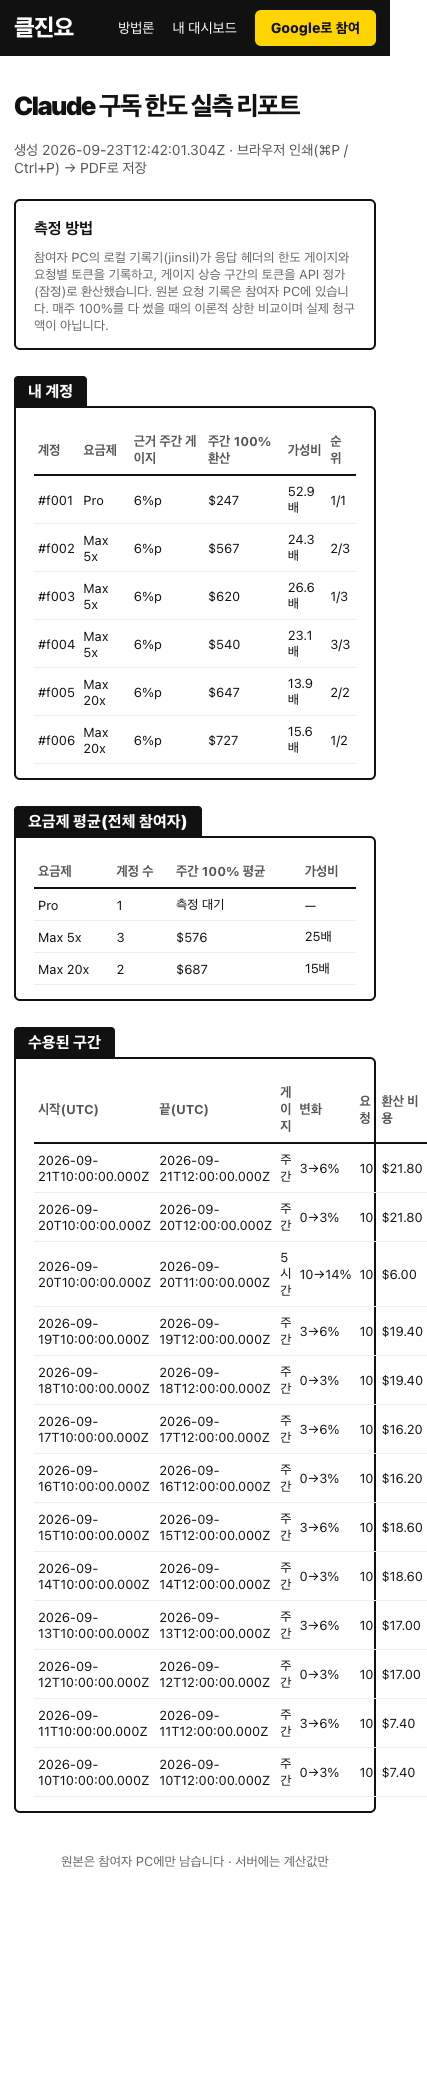
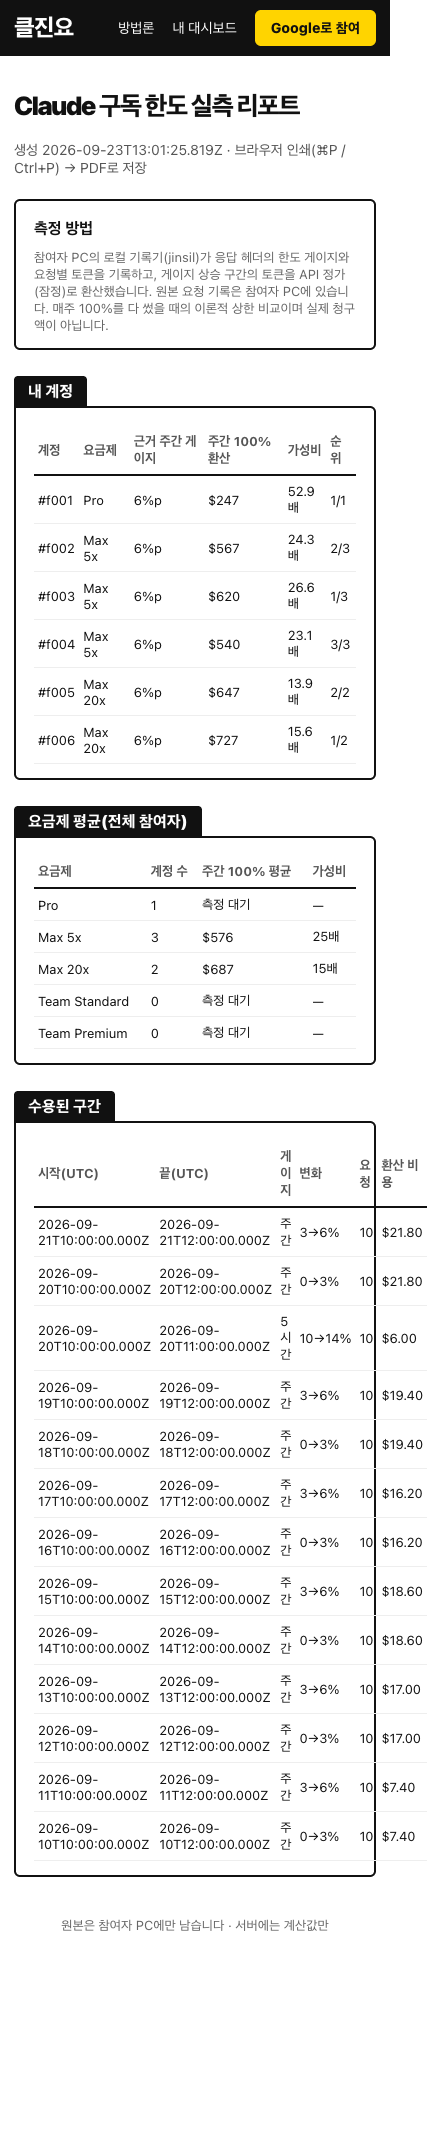
feat: setup이 Claude Code로 셸 설정 분석해 별칭 자동 연결·연결 테스트, 평소 claude 감싸기, Team 요금제, 참여 로그 5시간/주간 분리 (0.1.5)
- aiplan: claude 관련 alias·함수만 비밀값 가려 claude -p(도구 차단)에 보내 감쌀 대상 판단. 적용은 규칙 후보를 좁히기만.
- 요청 자체가 기록기 경유 → 장부 증가로 연결 테스트.
- Team Standard  / Premium (월 결제, 공식 도움말). tier 문자열은 실측 전 — team 먼저 가려 Pro 오분류 방지.
- 구간별 1%당 값은 게이지 반영 지연으로 튀어 공개 표시에서 제거, 계정 합산만.
- scripts/import-teamclaude.mjs: teamclaude 요청 로그 가져오기(완전성 대조). 짧은 구간 선택 편향이 확인돼 해당 30개는 서버에서 제외 처리.

diff --git a/server/src/pages.js b/server/src/pages.js
@@ -37,19 +37,22 @@ a{color:inherit}.wrap{max-width:1200px;margin:0 auto;padding:0 24px}
 .panel{border:2px solid #111;border-radius:6px;margin-top:22px;padding:18px 18px 14px}
 .tab{display:inline-block;background:#111;color:#fff;font-weight:900;padding:6px 14px;border-radius:4px 4px 0 0;margin:26px 0 -2px;font-size:16px}
 .tab+.panel{margin-top:0;border-top-left-radius:0}
-.bars .row{display:grid;grid-template-columns:90px 1fr 90px;align-items:center;gap:10px;margin:8px 0;font-weight:800}
+.bars .row{display:grid;grid-template-columns:130px 1fr 90px;align-items:center;gap:10px;margin:8px 0;font-weight:800}
 .bar{height:26px;background:#f2f2f2;position:relative}.bar i{position:absolute;left:0;top:0;bottom:0;background:#111}.bar i.hi{background:#FFD400;border:2px solid #111}
 .bar.wait{background:repeating-linear-gradient(45deg,#fff,#fff 6px,#eee 6px,#eee 12px);border:2px dashed #999}
 table{width:100%;border-collapse:collapse;font-size:14px}th{text-align:left;font-weight:700;color:#555;border-bottom:2px solid #111;padding:8px 6px}
 td{padding:8px 6px;border-bottom:1px solid #eee}td.num{font-variant-numeric:tabular-nums}
 .dot{display:inline-block;width:9px;height:9px;border-radius:50%;background:#2a9d4a;margin-right:6px}.dot.g{background:#aaa}.dot.r{background:#D62828}
+.feeds{display:grid;grid-template-columns:1fr 1fr;gap:22px}.feeds h3{margin:0 0 8px;font-size:17px}
+.sub{margin:26px 0 12px;font-size:20px;font-weight:900}.sub small{font-size:13px;font-weight:500;color:#666;margin-left:8px}
+.cards.team{grid-template-columns:repeat(2,1fr);max-width:66.6%}
 .ranks{display:grid;grid-template-columns:repeat(3,1fr);gap:18px}.ranks h3{margin:0 0 8px;font-size:17px}
 .foot{text-align:center;color:#666;font-size:13px;margin:40px 0 30px}
 .note{font-size:13px;color:#666;margin:10px 0 0}.warn{background:#fff6cc;border:2px solid #111;padding:10px 14px;font-size:14px;margin-top:14px}
 .kpis{display:grid;grid-template-columns:repeat(4,1fr);gap:14px}.kpi{border:2px solid #111;padding:14px}.kpi b{display:block;font-size:30px;font-weight:900;letter-spacing:-1px}.kpi span{font-size:13px;color:#555}
 code,pre{background:#f4f4f4;padding:2px 6px;border-radius:4px;font-size:13px}pre{padding:12px;overflow:auto}
 .prose{max-width:780px;line-height:1.75;font-size:16px}.prose h2{margin-top:32px}
-@media (max-width:820px){.cards,.ranks,.kpis{grid-template-columns:1fr}.logo small{display:none}.nav a.hide-m{display:none}.big{font-size:48px}
+@media (max-width:820px){.cards,.cards.team,.ranks,.kpis,.feeds{grid-template-columns:1fr;max-width:none}.logo small{display:none}.nav a.hide-m{display:none}.big{font-size:48px}
 .bars .row{grid-template-columns:70px 1fr 64px}.hide-m{display:none}.top .wrap{padding:0 14px}.wrap{padding:0 14px}th,td{padding:7px 4px;font-size:13px}}
 @media print{.top,.band,.noprint{display:none}.panel{break-inside:avoid}}`;
 
@@ -80,30 +83,38 @@ function planCard(p, sticks, bestPlan) {
 export async function home(req, env) {
   const [s, f, user] = await Promise.all([publicStats(env), feed(env, 20), currentUser(req, env)]);
   const plans = ['pro', 'max5x', 'max20x'].map(k => s.plans[k]);
+  const teamPlans = ['team_standard', 'team_premium'].map(k => s.plans[k]).filter(Boolean);
+  const allPlans = [...plans, ...teamPlans];
   const best = Object.entries(s.stickers).find(([, v]) => v.some(t => t.kind === 'best'))?.[0];
   const maxMult = Math.max(1, ...plans.map(p => p.shown ? p.value_multiple : 0));
-  const bars = plans.map(p => p.shown
+  const bars = allPlans.map(p => p.shown
     ? `<div class="row"><span>${esc(p.label)}</span><div class="bar"><i class="${best === p.plan ? 'hi' : ''}" style="width:${(p.value_multiple / maxMult * 100).toFixed(1)}%"></i></div><span>${x(p.value_multiple)}</span></div>`
     : `<div class="row"><span>${esc(p.label)}</span><div class="bar wait"></div><span style="color:#888">측정 대기</span></div>`).join('');
-  const rankTables = plans.map(p => {
+  const rankTables = allPlans.map(p => {
     const rows = s.ranking[p.plan];
     return `<div><h3>${esc(p.label)}</h3>${rows.length ? `<table><tr><th>순위</th><th>참여자</th><th>가성비</th><th class="hide-m">주간 100%</th></tr>${rows.slice(0, 10).map(r =>
       `<tr><td>${r.rank}</td><td>#${esc(r.tag)}</td><td class="num">${(r.value_multiple).toFixed(1)}배</td><td class="num hide-m">${usd(r.usd_per_100pct)}</td></tr>`).join('')}</table>`
       : `<p class="note">${p.shown ? '아직 순위에 오른 계정이 없습니다(주간 게이지 3%p 이상 필요).' : `측정 대기 — 이 요금제 참여 계정이 ${p.min_accounts}개 이상이면 순위를 공개합니다(현재 ${p.n}).`}</p>`}</div>`;
   }).join('');
-  const feedRows = f.length ? f.map(r => `<tr><td>${kst(r.at)}</td><td><span class="dot ${r.status === 'accepted' ? (r.display === '검증 중' ? 'g' : '') : r.status === 'flagged' ? 'r' : 'g'}"></span>#${esc(r.tag)}</td>
-    <td>${esc(PLAN_LABEL[r.plan] || '미확인')}</td><td>${gaugeLabel(r.gauge)} ${esc(r.range)}</td><td class="num">${esc(r.display)}</td></tr>`).join('')
-    : '<tr><td colspan="5" class="note">아직 제출된 구간이 없습니다.</td></tr>';
+  const feedTable = gauge => {
+    const rs = f.filter(r => r.gauge === gauge);
+    return `<table><tr><th>시각(KST)</th><th>참여자</th><th>요금제</th><th>게이지 변화</th><th>상태</th></tr>${rs.length ? rs.map(r => `<tr><td>${kst(r.at)}</td><td><span class="dot ${r.status === 'accepted' ? (r.display.startsWith('검증 중') ? 'g' : '') : r.status === 'flagged' ? 'r' : 'g'}"></span>#${esc(r.tag)}</td>
+    <td>${esc(PLAN_LABEL[r.plan] || '미확인')}</td><td>${esc(r.range)}</td><td>${esc(r.display)}</td></tr>`).join('') : '<tr><td colspan="5" class="note">아직 없습니다.</td></tr>'}</table>`;
+  };
+  const feedRows = `<div class="feeds"><div><h3>주간 게이지</h3>${feedTable('7d')}</div><div><h3>5시간 게이지</h3>${feedTable('5h')}</div></div>
+    <p class="note">구간 하나의 1%당 값은 게이지 반영이 수십 초 늦어 크게 튀므로 싣지 않습니다. 가성비는 계정별로 이어진 구간을 모두 합산해 계산합니다. 새 계정은 24시간 검증 후 통계에 반영됩니다.</p>`;
   return html(layout('클진요 — 클로드에게 진실을 요구합니다', `
 <section class="band"><div class="wrap"><h1>클로드에게 진실을 요구합니다</h1><p class="join">터미널에서 <code>npx jinsil setup</code> 으로 클진요를 설치한 뒤 Claude Code를 사용해 주세요 <a href="/methodology">어떻게 계산하나요?</a></p><p class="live">지금 <b>${s.measuring.users}명</b>이 PC ${s.measuring.devices}대에서 측정 중 · 게이지가 오른 구간부터 자동 제출</p></div></section>
 <main class="wrap" id="stats">
   <div class="lead"><h2>구독료 <mark>1달러로</mark> 얼마나 쓸 수 있나</h2><p>${esc(s.note)}${s.price_status === 'provisional' ? ' · 단가 잠정' : ''}</p></div>
   <div class="cards">${plans.map(p => planCard(p, s.stickers, best)).join('')}</div>
+  <h3 class="sub">팀 요금제 <small>좌석당 월 결제가 · Standard는 Pro의 1.25배, Premium은 6.25배 사용량(공식 안내)</small></h3>
+  <div class="cards team">${teamPlans.map(p => planCard(p, s.stickers, best)).join('')}</div>
   <div class="tab">가성비 배수</div><div class="panel bars">${bars}
     <p class="note">가성비 배수 = (주간 100% 환산 × 4.35주) ÷ 월 구독료. 계정당 한 표로 평균${s.baseline ? ` · 가격→가치 비교 기준: ${esc(PLAN_LABEL[s.baseline])}` : ''}.</p></div>
   <div class="tab">요금제별 순위</div><div class="panel"><div class="ranks">${rankTables}</div>
     <p class="note">순위가 낮을수록 같은 구독료로 한도를 더 빨리 쓰는 사용 패턴입니다(캐시·출력 비중에 따라 달라짐). 익명 태그만 공개합니다.</p></div>
-  <div class="tab">참여 로그</div><div class="panel"><table><tr><th>시각(KST)</th><th>참여자</th><th>요금제</th><th>게이지 변화</th><th>환산</th></tr>${feedRows}</table></div>
+  <div class="tab">참여 로그</div><div class="panel">${feedRows}</div>
 </main>`, { user }), 200, { 'cache-control': 'no-store' });
 }
 
@@ -156,15 +167,20 @@ export async function me(req, env, user, data) {
   // 5시간 1%와 주간 1%는 단위가 달라 섞지 않는다 — 추이는 주간 구간만.
   const accepted = data.intervals.filter(i => i.status === 'accepted' && i.usd_per_pct !== null && i.gauge === '7d').slice().reverse();
   const series = accepted.map(i => ({ v: i.usd_per_pct }));
-  const reasonKo = r => ({ too_few_ticks: '게이지 상승 부족', routed_upstream: '라우터 경유', cache_ttl_unknown: '캐시 보관시간 미확인', unpriced_model: '단가 미확인 모델', incomplete_usage: '기록 불완전', tier_unknown: '요금제 미확인', daily_interval_cap: '일일 한도 초과', pending_or_interrupted_requests: '중단된 요청' }[r] || r || '');
-  const rows = data.intervals.slice(0, 50).map(i => `<tr><td>${kst(i.t_end)}</td><td>#${esc(i.public_tag)}</td><td>${gaugeLabel(i.gauge)} ${i.g_start}%→${i.g_end}%</td>
-    <td class="num">${i.requests}</td><td class="num">${i.usd_per_pct === null ? '—' : usd(i.usd_per_pct, 2)}</td><td>${i.status === 'accepted' ? '수용' : i.status === 'flagged' ? '검토 중' : `제외 · ${esc(reasonKo(i.exclude_reason))}`}</td></tr>`).join('');
+  const reasonKo = r => ({ too_few_ticks: '게이지 상승 부족', routed_upstream: '라우터 경유', cache_ttl_unknown: '캐시 보관시간 미확인', unpriced_model: '단가 미확인 모델', incomplete_usage: '기록 불완전', tier_unknown: '요금제 미확인', daily_interval_cap: '일일 한도 초과', pending_or_interrupted_requests: '중단된 요청', import_selection_bias: '가져오기 표본 편향' }[r] || r || '');
+  const histTable = gauge => {
+    const rs = data.intervals.filter(i => i.gauge === gauge).slice(0, 40);
+    return `<table><tr><th>구간 끝(KST)</th><th>계정</th><th>게이지</th><th>요청</th><th>상태</th></tr>${rs.length ? rs.map(i => `<tr><td>${kst(i.t_end)}</td><td>#${esc(i.public_tag)}</td><td>${i.g_start}%→${i.g_end}%</td>
+    <td class="num">${i.requests}</td><td>${i.status === 'accepted' ? '수용' : i.status === 'flagged' ? '검토 중' : `제외 · ${esc(reasonKo(i.exclude_reason))}`}</td></tr>`).join('') : '<tr><td colspan="5" class="note">없음</td></tr>'}</table>`;
+  };
+  const rows = `<div class="feeds"><div><h3>주간 게이지</h3>${histTable('7d')}</div><div><h3>5시간 게이지</h3>${histTable('5h')}</div></div>
+    <p class="note">구간별 1%당 값은 게이지 반영 지연으로 튀어서 표시하지 않습니다. 위 카드의 값은 이어진 구간 전체를 합산한 결과입니다.</p>`;
   const devs = data.devices.map(d => `<tr><td>${esc(d.name)}</td><td>${esc(d.os)}</td><td>${d.last_seen ? kst(new Date(d.last_seen).toISOString()) : '—'}</td>
     <td>${d.revoked_at ? '해제됨' : `<form method="post" action="/me/devices/revoke"><input type="hidden" name="csrf" value="${esc(user.csrf)}"><input type="hidden" name="device_id" value="${esc(d.id)}"><button class="btn ghost">연결 해제</button></form>`}</td></tr>`).join('');
   return html(layout('내 대시보드 — 클진요', `<main class="wrap"><div class="lead"><h2>내 대시보드</h2><p>얼마나 비싸게 쓰고 있는지 · 같은 요금제에서 몇 위인지</p></div>
 ${accounts}
 <div class="tab">주간 1%당 비용 추이</div><div class="panel">${sparkline(series)}</div>
-<div class="tab">제출 이력</div><div class="panel"><table><tr><th>구간 끝(KST)</th><th>계정</th><th>게이지</th><th>요청</th><th>1%당</th><th>상태</th></tr>${rows || '<tr><td colspan="6" class="note">없음</td></tr>'}</table>
+<div class="tab">제출 이력</div><div class="panel">${rows}
 <p class="noprint" style="margin-top:12px;display:flex;gap:10px;flex-wrap:wrap"><a class="btn" href="/me/export.csv">CSV 내려받기</a><a class="btn ghost" href="/me/report">이의제기용 리포트(PDF로 저장)</a></p></div>
 <div class="tab">연결된 PC</div><div class="panel"><table><tr><th>이름</th><th>OS</th><th>마지막 제출</th><th></th></tr>${devs || '<tr><td colspan="4" class="note">없음</td></tr>'}</table></div>
 <div class="panel noprint"><form method="post" action="/me/delete" style="display:flex;gap:10px;align-items:center;flex-wrap:wrap"><input type="hidden" name="csrf" value="${esc(user.csrf)}">

diff --git a/server/src/stats.js b/server/src/stats.js
@@ -1,7 +1,7 @@
 // 집계: 계정별 주간 100% 환산 → 요금제별 평균·가성비 배수·순위·스티커. 계정당 한 표.
 import { planOf, PLAN_LABEL, WEEKS_PER_MONTH } from './util.js';
 
-const PLANS = ['pro', 'max5x', 'max20x'];
+const PLANS = ['pro', 'max5x', 'max20x', 'team_standard', 'team_premium'];
 const MIN_WEEKLY_PCT = 3;             // 순위·통계 편입 최소 주간 게이지 합(%p)
 const ADVERT_GAP = 0.8;               // 가치 배수가 가격 배수의 80% 미만이면 '광고보다 적음'
 // 이 규칙의 flag는 해당 계정의 잘못이 아니다(다른 사용자가 이 계정 지문으로 제출 시도).
@@ -130,7 +130,8 @@ export async function feed(env, limit = 30) {
   return results.map(r => ({
     at: new Date(Math.floor(r.created_at / 60000) * 60000).toISOString(), tag: r.public_tag, plan: planOf(r.tier),
     gauge: r.gauge, range: `${r.g_start}%→${r.g_end}%`,
-    display: r.status === 'accepted' ? (r.created_at - r.first_seen < probationMs ? '검증 중' : `$${r.usd_per_pct.toFixed(2)}/1%`)
+    // 구간 하나의 1%당 값은 게이지 반영 지연 때문에 크게 튄다 — 공개 피드에는 싣지 않고 계정 합산값만 쓴다.
+    display: r.status === 'accepted' ? (r.created_at - r.first_seen < probationMs ? '검증 중(24시간)' : '반영')
       : r.status === 'flagged' ? '검토 중' : '통계 제외',
     status: r.status,
   }));

diff --git a/server/src/util.js b/server/src/util.js
@@ -41,6 +41,10 @@ export async function readForm(req) {
   const f = await req.formData();
   return Object.fromEntries(f.entries());
 }
-export const planOf = tier => !tier ? null : /max_20x/.test(tier) ? 'max20x' : /max_5x/.test(tier) ? 'max5x' : /pro/.test(tier) ? 'pro' : null;
-export const PLAN_LABEL = { pro: 'Pro', max5x: 'Max 5x', max20x: 'Max 20x' };
+// Team 좌석의 rate_limit_tier 문자열은 아직 실측 전 — 'team'을 먼저 가려 Pro로 오분류되지 않게 한다.
+// 확인 전 매핑: team+premium → Team Premium, 그 외 team → Team Standard. 첫 실측 시 이 규칙을 검증·수정한다.
+export const planOf = tier => !tier ? null
+  : /team/.test(tier) ? (/premium/.test(tier) ? 'team_premium' : 'team_standard')
+  : /max_20x/.test(tier) ? 'max20x' : /max_5x/.test(tier) ? 'max5x' : /pro/.test(tier) ? 'pro' : null;
+export const PLAN_LABEL = { pro: 'Pro', max5x: 'Max 5x', max20x: 'Max 20x', team_standard: 'Team Standard', team_premium: 'Team Premium' };
 export const WEEKS_PER_MONTH = 30 / 7;
